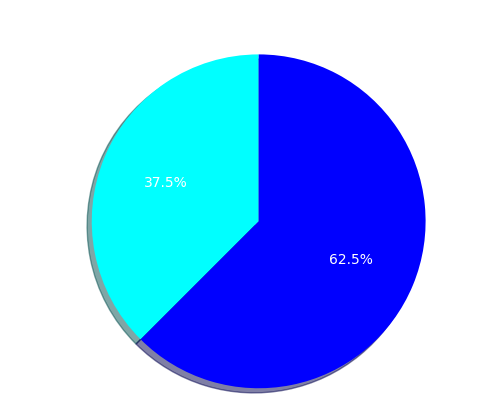
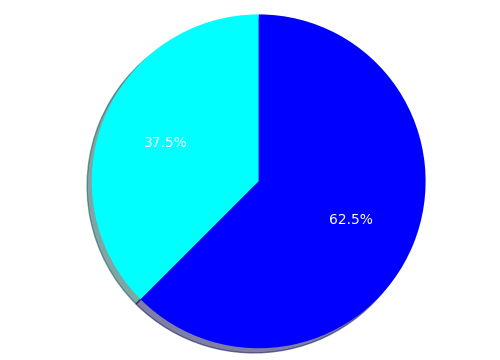
center pie articles

diff --git a/templates/home.html b/templates/home.html
@@ -39,7 +39,7 @@
     <section id="list-of-winners">
     <h2>List of Survivor Winners</h2>
     <hr>
-    <p>A table of survivor winners in order of season, with basic challenge data.</p>
+    <p>A table of survivor winners in order of season.</p>
     <table>
         <thead>
             <tr>
@@ -48,9 +48,9 @@
                 <th>Hometown</th>
                 <th>Season #</th>
                 <th>Season Name</th>
-                <th>Tribal Wins</th>
+                <!-- <th>Tribal Wins</th>
                 <th>Individual Wins</th>
-                <th>Total Wins</th>
+                <th>Total Wins</th> -->
             </tr>
         </thead>
         <tbody>
@@ -61,24 +61,24 @@
                 <td>{{ winclass.winner_towns(i) }}</td>
                 <td>{{ (i + 1) }}</td>
                 <td>{{ winclass.season_list(i) }}</td>
-                <td>{{ winclass.tribal_wins(i) }}</td>
+                <!-- <td>{{ winclass.tribal_wins(i) }}</td>
                 <td>{{ winclass.in_wins(i) }}</td>
-                <td>{{ winclass.total_wins(i) }}</td>
+                <td>{{ winclass.total_wins(i) }}</td> -->
             </tr>
             {% endfor %}
         </tbody>
     </table>
 </section>
 <section id="list-of-winners">
-<h2>Winners by Gender</h2>
+<h2>Women Winners</h2>
 <hr>
-<h3>Women</h3>
+<p>A table of all the women survivor winners in order of season.</p>
 <table>
     <thead>
         <tr>
             <th>Name</th>
-            <th>Age (at time of filming)</th>
-            <th>Hometown</th>
+            <!-- <th>Age (at time of filming)</th>
+            <th>Hometown</th> -->
             <th>Season #</th>
             <th>Season Name</th>
             <th>Tribal Wins</th>
@@ -90,8 +90,8 @@
         {% for i in winclass.women_seasons() %}
         <tr>
             <td>{{ winclass.women_winners('Players', 'name', i) }}</td>
-            <td>{{ winclass.women_winners('Stats', 'age_time_of_filming', i) }} </td>
-            <td>{{ winclass.women_winners('Stats', 'hometown', i) }}</td>
+            <!-- <td>{{ winclass.women_winners('Stats', 'age_time_of_filming', i) }} </td>
+            <td>{{ winclass.women_winners('Stats', 'hometown', i) }}</td> -->
             <td>{{ i }}</td>
             <td>{{ winclass.women_winners('Seasons', 'season', i) }}</td>
             <td>{{ winclass.women_winners('Stats', 'tribal_wins', i) }}</td>
@@ -101,7 +101,9 @@
         {% endfor %}
     </tbody>
 </table>
-<h3>Men</h3>
+<h2>Men Winners</h2>
+<hr>
+<p>A table of all the women survivor winners in order of season.</p>
 <table>
     <thead>
         <tr>
@@ -130,12 +132,11 @@
         {% endfor %}
     </tbody>
 </table>
-<h3>Breakdown</h3>
 <article>
 <div class="info" id="play-by-gen">
 <p>Women Players: {{ playerclass.num_women_players() }}</p>
 <p>Men Players: {{ playerclass.num_men_players() }}</p>
-<p>Non-binary Players: {{ playerclass.num_nb_players() }}</p>
+<p>Non-Binary Players: {{ playerclass.num_nb_players() }}</p>
 </div>
 <div class="pie">
 <img id="play-by-gen-pie" src="{{ url_for('static', filename='gender_pie_players_cropped.png') }}">
@@ -155,7 +156,7 @@
 <script>
     var $navbar = $('nav');
 $(document).scroll(function() {
-    $navbar.css({display: $(this).scrollTop() > 330? "block":"none"});
+    $navbar.css({display: $(this).scrollTop() > 320? "block":"none"});
 });
 </script>
 </body>

diff --git a/static/style.css b/static/style.css
@@ -62,8 +62,6 @@ body {
 section {
     margin-left: 160px;
     margin-right: 160px;
-    /* Same as the width of the sidebar */
-    /* padding: 0px 160px 0 0; */
 }
 
 section a {
@@ -83,14 +81,10 @@ table {
     border-collapse: collapse;
     overflow: hidden;
     box-shadow: 0 0 20px rgba(0, 0, 0, 0.1);
-    /* width: 80%;
-    border-collapse: collapse;
-    border: 1px solid black;
-    text-align: start; */
 }
 
 th, td {
-    padding: 15px;
+    padding: 10px 15px;
     background-color: rgba(255, 255, 255, 0.2);
     color: #fff;
 }
@@ -101,8 +95,7 @@ th {
 
 thead {
     background-color: #55608f;
-    position: -webkit-sticky;
-    /* Safari */
+    position: -webkit-sticky; /* Safari */
     position: sticky;
     top: 0;
 }
@@ -111,15 +104,14 @@ tbody tr:hover {
     background-color: rgba(255, 255, 255, 0.3);
 }
 
-.pie {
-  width: 80%;
-  display: inline-block;
-  vertical-align: middle;
+article {
+  display: flex;
+  justify-content: center;
+  align-items: center
 }
 
 .pie img {
-  width: 60%;
-  margin: 0 auto;
+  width: 100%;
 }
 
 .info {

diff --git a/visuals.py b/visuals.py
@@ -2,7 +2,7 @@ import matplotlib.pyplot as plt
 from queries import query_db, get_db, DATABASE, num_seasons
 from PIL import Image
 
-def makecroppedpie2(file_name, title, label1='label1', label2='label2', value1=0, value2=0, color1='cyan', color2='blue'):
+def makecroppedpie2(file_name, label1='label1', label2='label2', value1=0, value2=0, color1='cyan', color2='blue'):
     plt.rcParams['font.family'] = 'sans-serif'
     plt.rcParams['text.color'] = 'white'
     labels = label1, label2
@@ -13,13 +13,13 @@ def makecroppedpie2(file_name, title, label1='label1', label2='label2', value1=0
     ax1.pie(sizes, explode=explode, labels=labels, autopct='%1.1f%%',
             shadow=True, startangle=90, colors = colors_list)
     ax1.axis('equal')  # Equal aspect ratio ensures that pie is drawn as a circle.
-    plt.title(title, color = 'white', fontweight = 'bold', fontsize = '20')
+    # plt.title(title, color = 'white', fontweight = 'bold', fontsize = '20')
     plt.savefig('static/' + file_name + '.png', transparent=True)
     imgPath = 'static/' + file_name + '.png'
     img = Image.open(imgPath)
-    box = (70, 20, 570, 420)
+    box = (70, 60, 570, 420)
     croppedImage = img.crop(box)
     croppedImage.save('static/' + file_name + '_cropped.png')
 
-makecroppedpie2('gender_pie_players', 'Players by Gender', 'Women', 'Men', 354, 356)
-makecroppedpie2('gender_pie_winners', 'Winners by Gender', 'Women', 'Men', 15, 25)
+makecroppedpie2('gender_pie_players', 'Women', 'Men', 354, 356)
+makecroppedpie2('gender_pie_winners', 'Women', 'Men', 15, 25)
